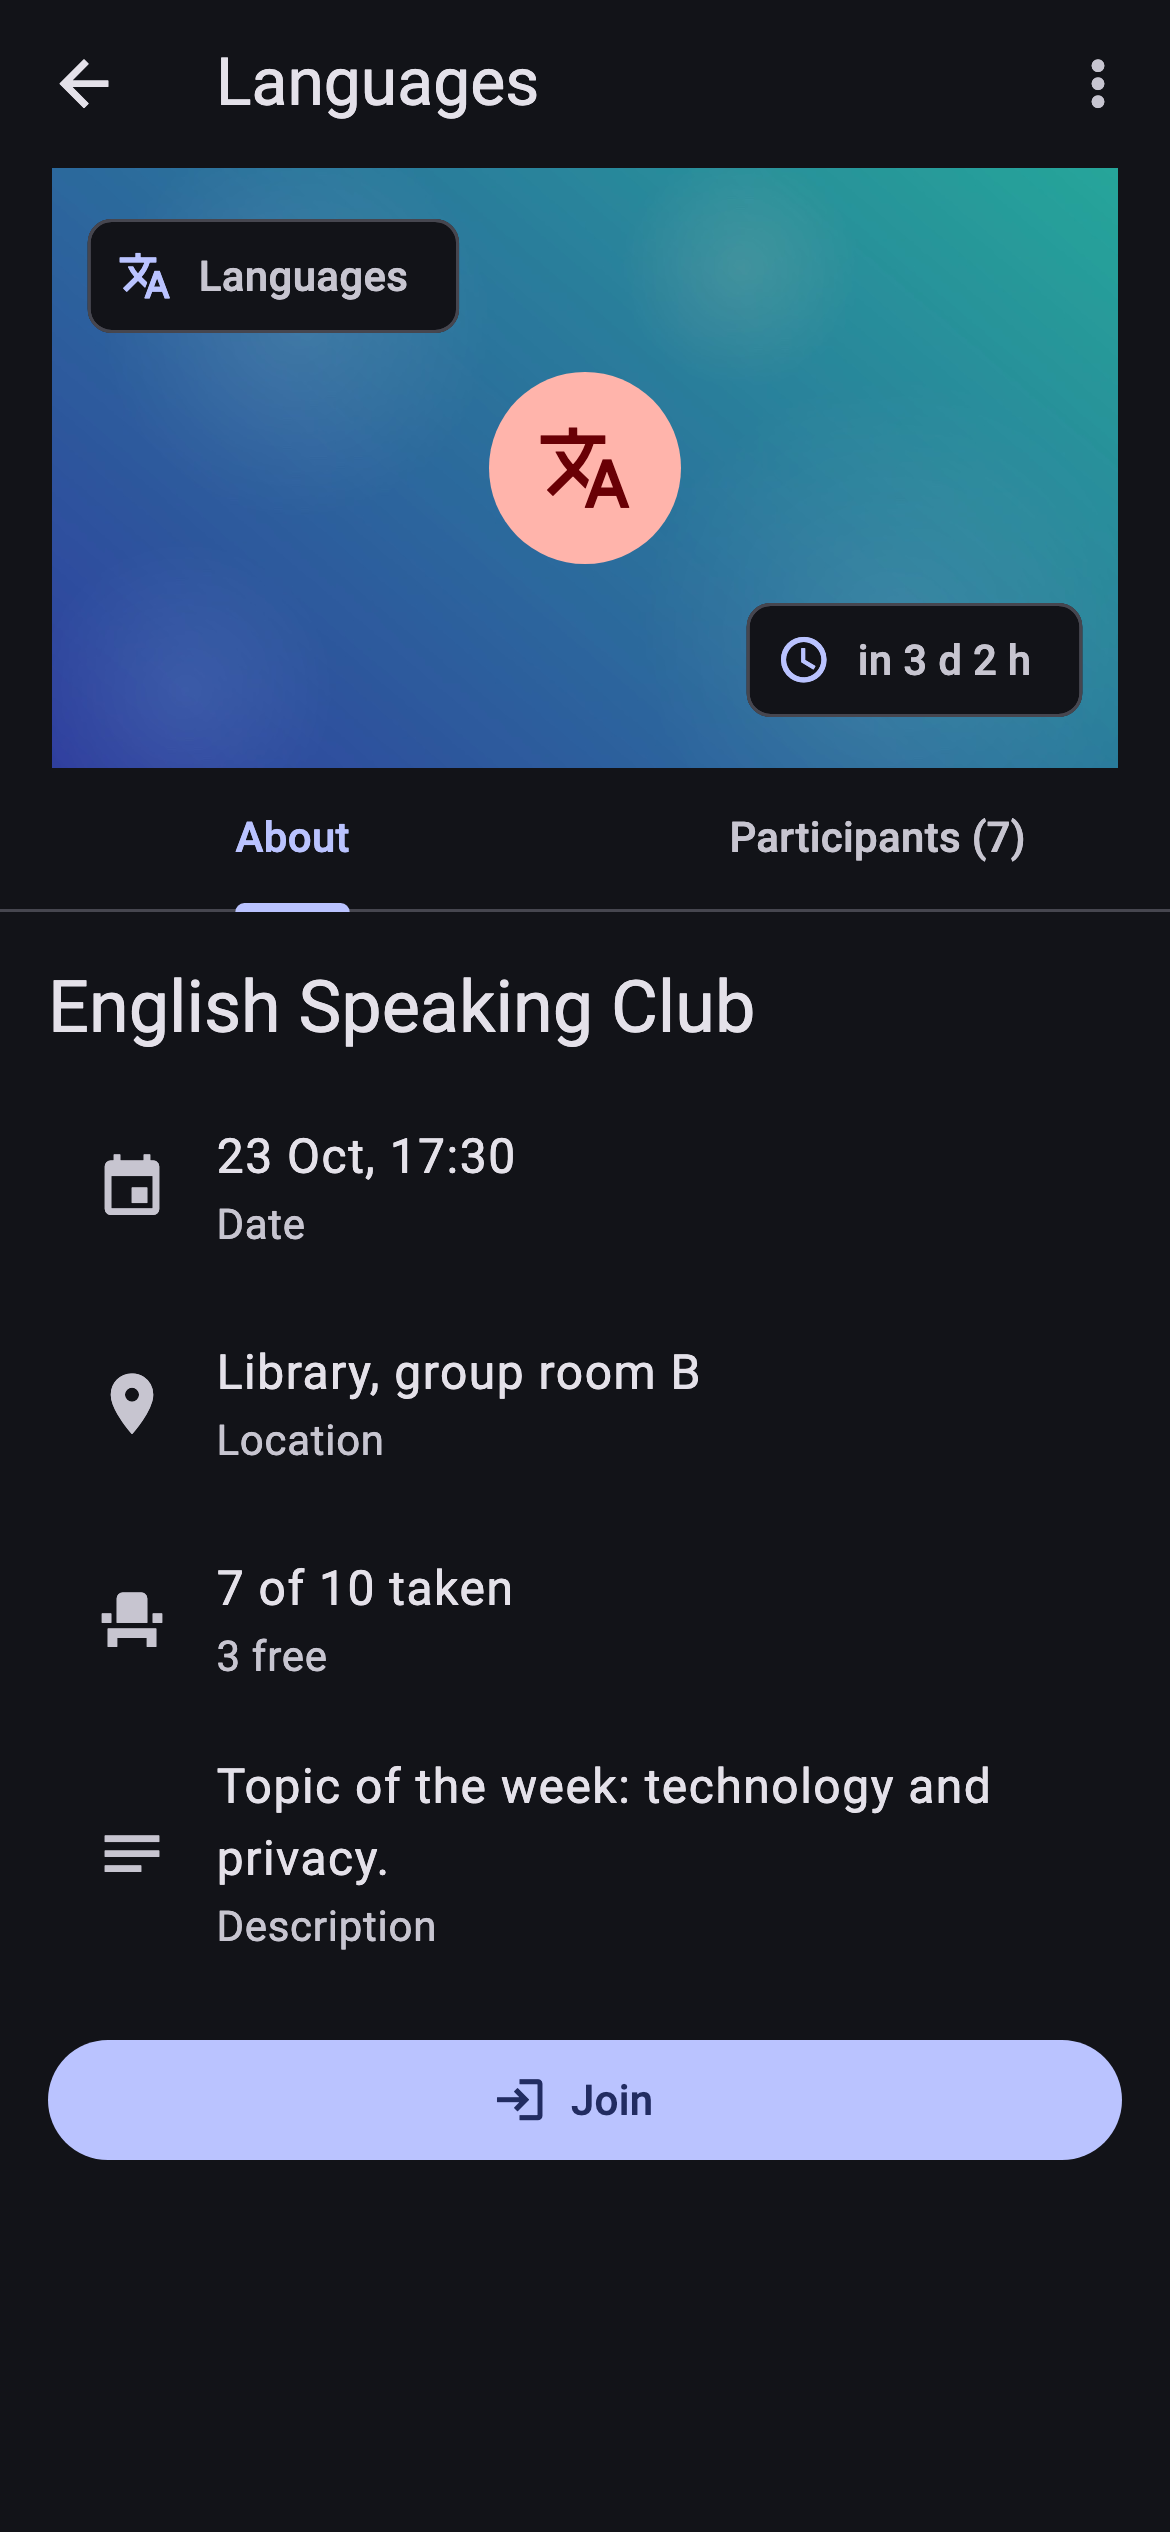
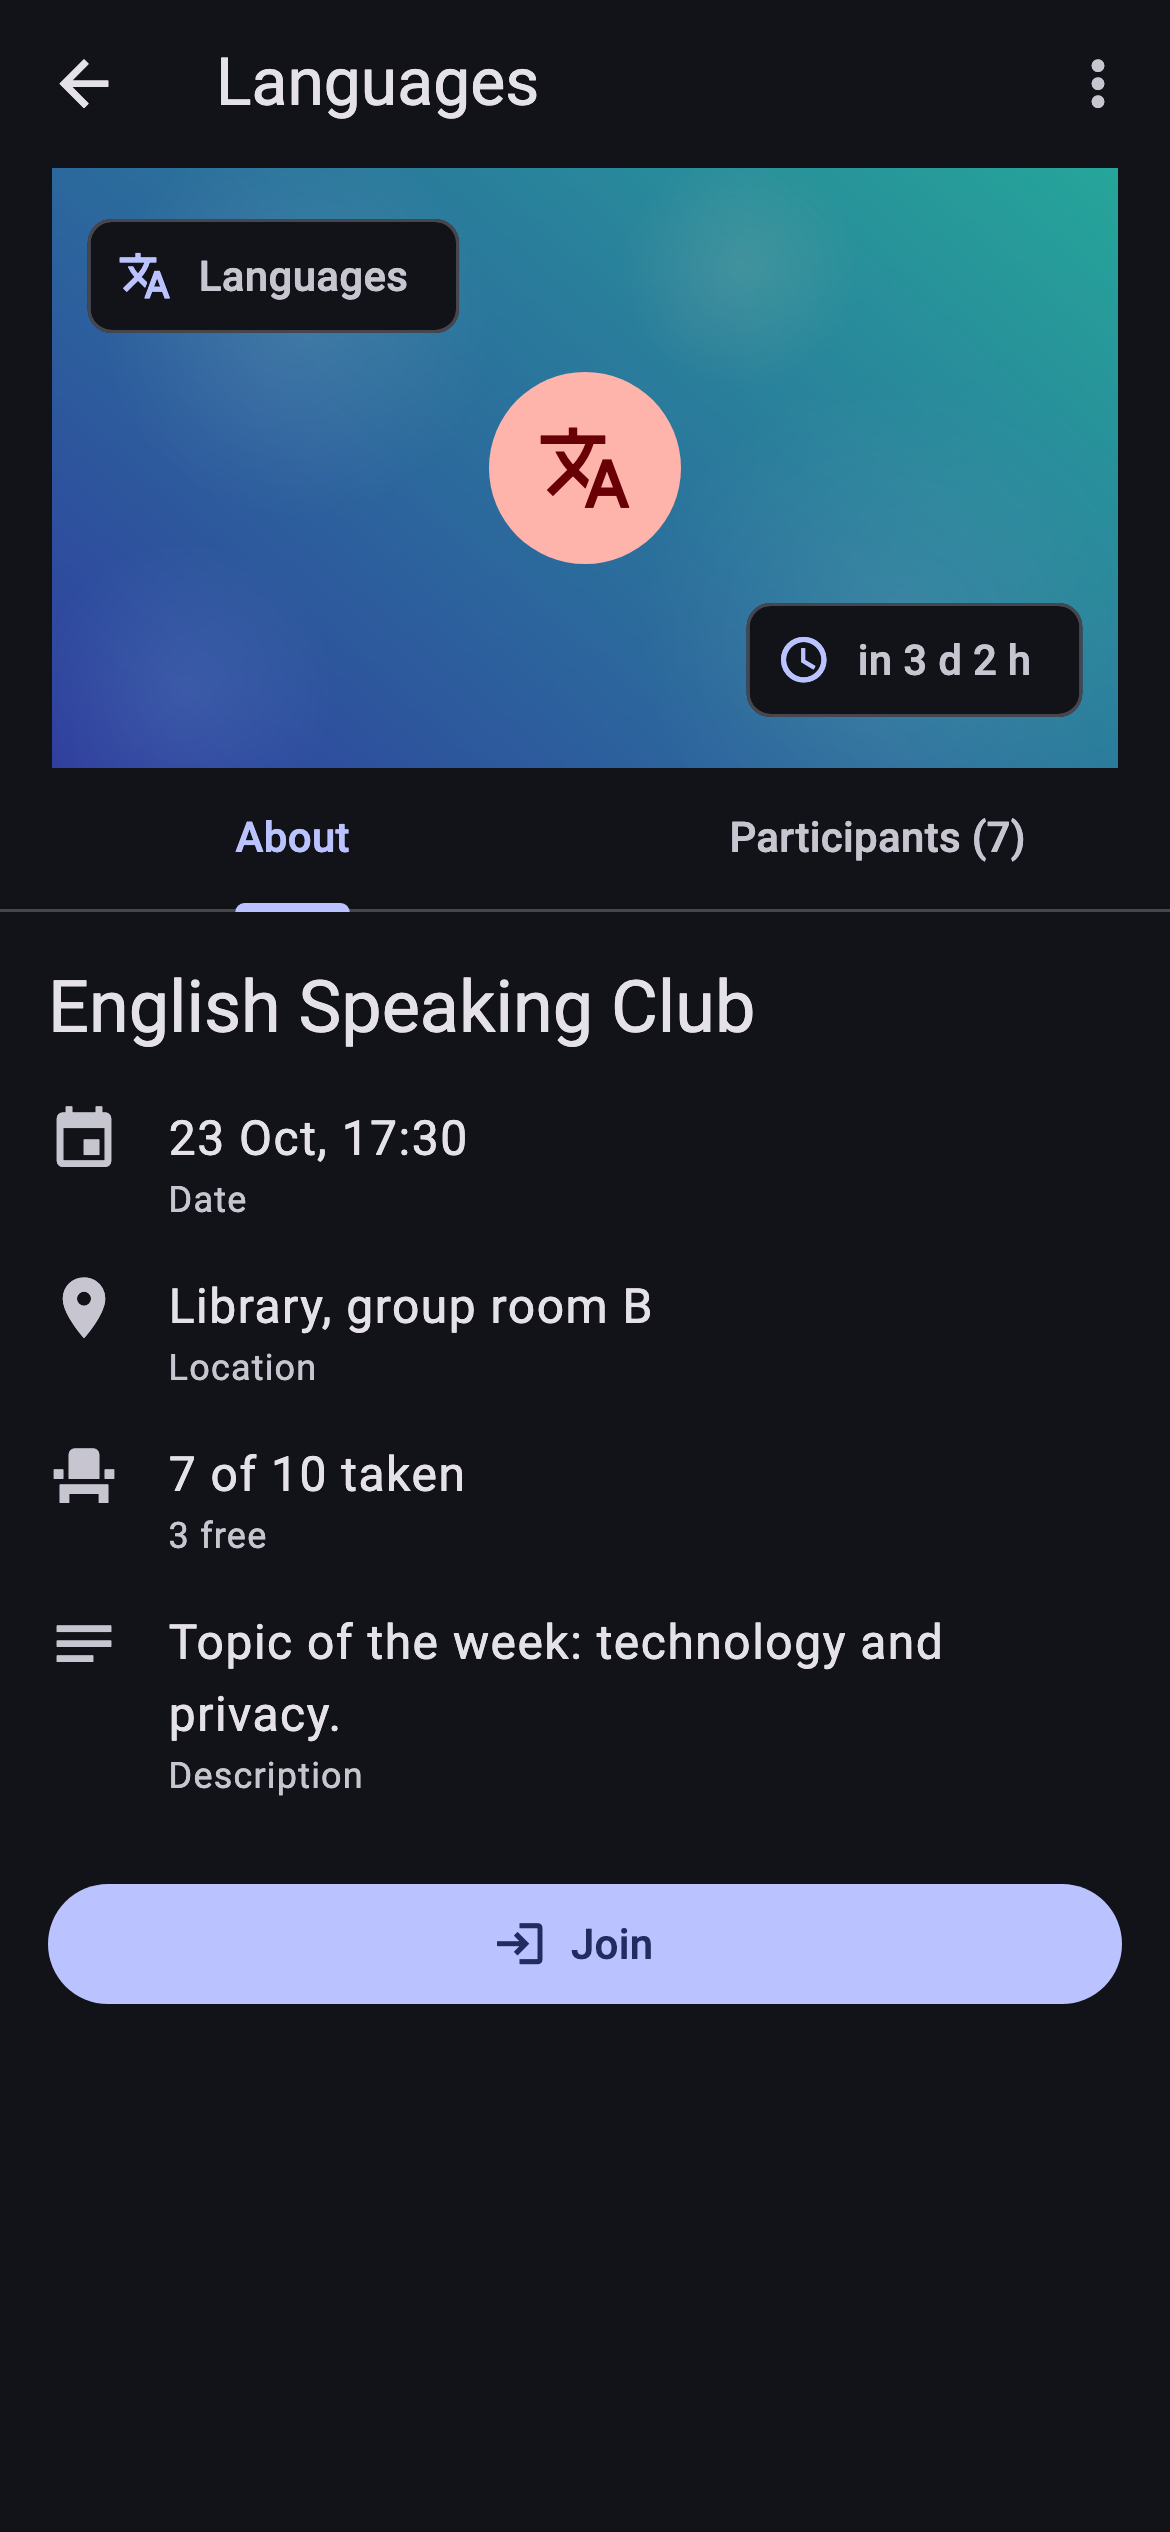
Remove every leading: slot; detail rows use a small _InfoRow widget

diff --git a/study_buddy/lib/screens/detail_screen.dart b/study_buddy/lib/screens/detail_screen.dart
@@ -160,27 +160,23 @@ class _DetailScreenState extends State<DetailScreen> {
       children: [
         Text(_session.title, style: text.headlineSmall),
         const SizedBox(height: 8),
-        ListTile(
-          leading: const Icon(Icons.event),
-          title: Text(formatDateTime(_session.startsAt)),
-          subtitle: const Text('Date'),
+        _InfoRow(
+          icon: Icons.event,
+          value: formatDateTime(_session.startsAt),
+          label: 'Date',
         ),
-        ListTile(
-          leading: Icon(_session.isOnline ? Icons.link : Icons.place),
-          title: Text(_session.location),
-          subtitle: Text(_session.isOnline ? 'Meeting link' : 'Location'),
+        _InfoRow(
+          icon: _session.isOnline ? Icons.link : Icons.place,
+          value: _session.location,
+          label: _session.isOnline ? 'Meeting link' : 'Location',
         ),
-        ListTile(
-          leading: const Icon(Icons.event_seat),
-          title: Text('$taken of ${_session.seats} taken'),
-          subtitle: Text('$free free'),
+        _InfoRow(
+          icon: Icons.event_seat,
+          value: '$taken of ${_session.seats} taken',
+          label: '$free free',
         ),
         if (description != null)
-          ListTile(
-            leading: const Icon(Icons.notes),
-            title: Text(description),
-            subtitle: const Text('Description'),
-          ),
+          _InfoRow(icon: Icons.notes, value: description, label: 'Description'),
         const SizedBox(height: 16),
         _buildPrimaryAction(),
       ],
@@ -226,8 +222,13 @@ class _DetailScreenState extends State<DetailScreen> {
         final name = names[i];
         final isMe = name.trim().toLowerCase() == _me.toLowerCase();
         return ListTile(
-          leading: CircleAvatar(child: Text(name.characters.first)),
-          title: Text(isMe ? 'You' : name),
+          title: Row(
+            children: [
+              CircleAvatar(child: Text(name.characters.first)),
+              const SizedBox(width: 16),
+              Expanded(child: Text(isMe ? 'You' : name)),
+            ],
+          ),
           tileColor: isMe ? colors.primaryContainer : null,
           textColor: isMe ? colors.onPrimaryContainer : null,
         );
@@ -281,6 +282,49 @@ class _Header extends StatelessWidget {
             ),
           ],
         ),
+      ),
+    );
+  }
+}
+
+/// One line of the About tab: an icon, the value and a small label.
+class _InfoRow extends StatelessWidget {
+  const _InfoRow({
+    required this.icon,
+    required this.value,
+    required this.label,
+  });
+
+  final IconData icon;
+  final String value;
+  final String label;
+
+  @override
+  Widget build(BuildContext context) {
+    final colors = Theme.of(context).colorScheme;
+    final text = Theme.of(context).textTheme;
+    return Padding(
+      padding: const EdgeInsets.symmetric(vertical: 8),
+      child: Row(
+        crossAxisAlignment: CrossAxisAlignment.start,
+        children: [
+          Icon(icon, color: colors.onSurfaceVariant),
+          const SizedBox(width: 16),
+          Expanded(
+            child: Column(
+              crossAxisAlignment: CrossAxisAlignment.start,
+              children: [
+                Text(value, style: text.bodyLarge),
+                Text(
+                  label,
+                  style: text.bodySmall?.copyWith(
+                    color: colors.onSurfaceVariant,
+                  ),
+                ),
+              ],
+            ),
+          ),
+        ],
       ),
     );
   }

diff --git a/study_buddy/lib/shell.dart b/study_buddy/lib/shell.dart
@@ -116,14 +116,15 @@ class _ShellState extends State<Shell> {
                 child: Text('StudyBuddy', style: text.headlineSmall),
               ),
             ),
+            // Icons on the right: no back-arrow slot is touched anywhere.
             ListTile(
-              leading: const Icon(Icons.info_outline),
               title: const Text('About'),
+              trailing: const Icon(Icons.info_outline),
               onTap: _showAbout,
             ),
             ListTile(
-              leading: const Icon(Icons.restart_alt),
               title: const Text('Reset data'),
+              trailing: const Icon(Icons.restart_alt),
               onTap: _resetData,
             ),
           ],
